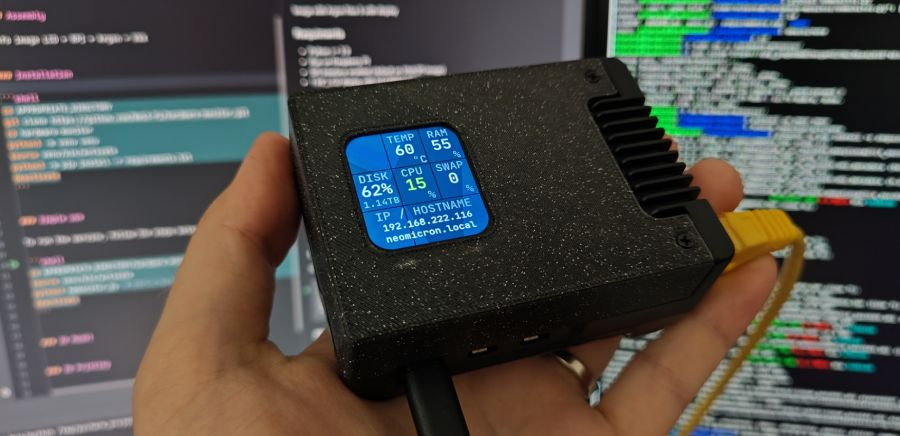
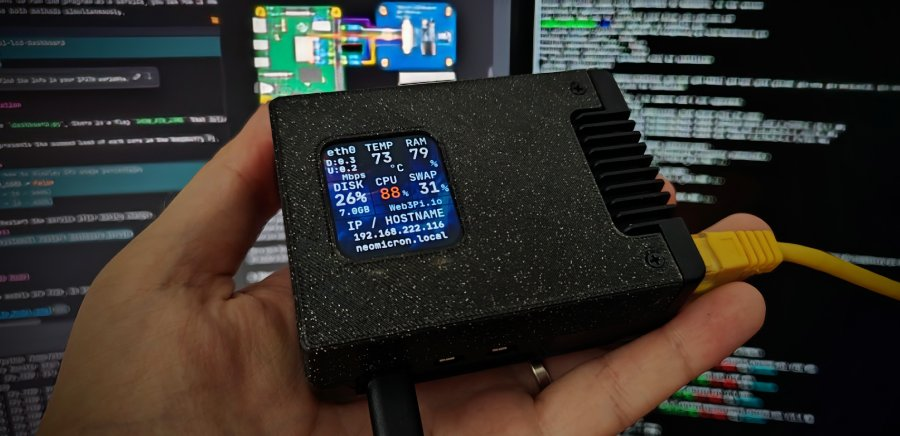
release

diff --git a/dashboard.py b/dashboard.py
@@ -95,7 +95,7 @@ def main():
     # Clear display.
     disp.clear()
     # Set the backlight to 100
-    disp.bl_DutyCycle(100) # ToDo: Fix hardware PWM on Rpi 5
+    disp.bl_DutyCycle(60) # ToDo: Fix hardware PWM on Rpi 5
     # If backlight is flickering a quick fix is to connect BL pin to 3.3V on Rpi to set backlight to 100%
 
     # https://www.fontsquirrel.com/fonts/jetbrains-mono
@@ -149,7 +149,7 @@ def main():
 
 
                 # Draw background
-                image1 = Image.open('./img/lcdbg2.png')
+                image1 = Image.open('./img/lcdbg1.png')
                 draw = ImageDraw.Draw(image1)
 
                 # Draw vertical lines

diff --git a/README.md b/README.md
@@ -95,7 +95,7 @@ Note: Do not use both methods simultaneously.
 ```shell
 cd raspberry-pi-lcd-dashboard
 chmod +x *.sh
-./run.sh
+sudo ./run.sh
 ```
 To stop the program, press Ctrl+C.
 
